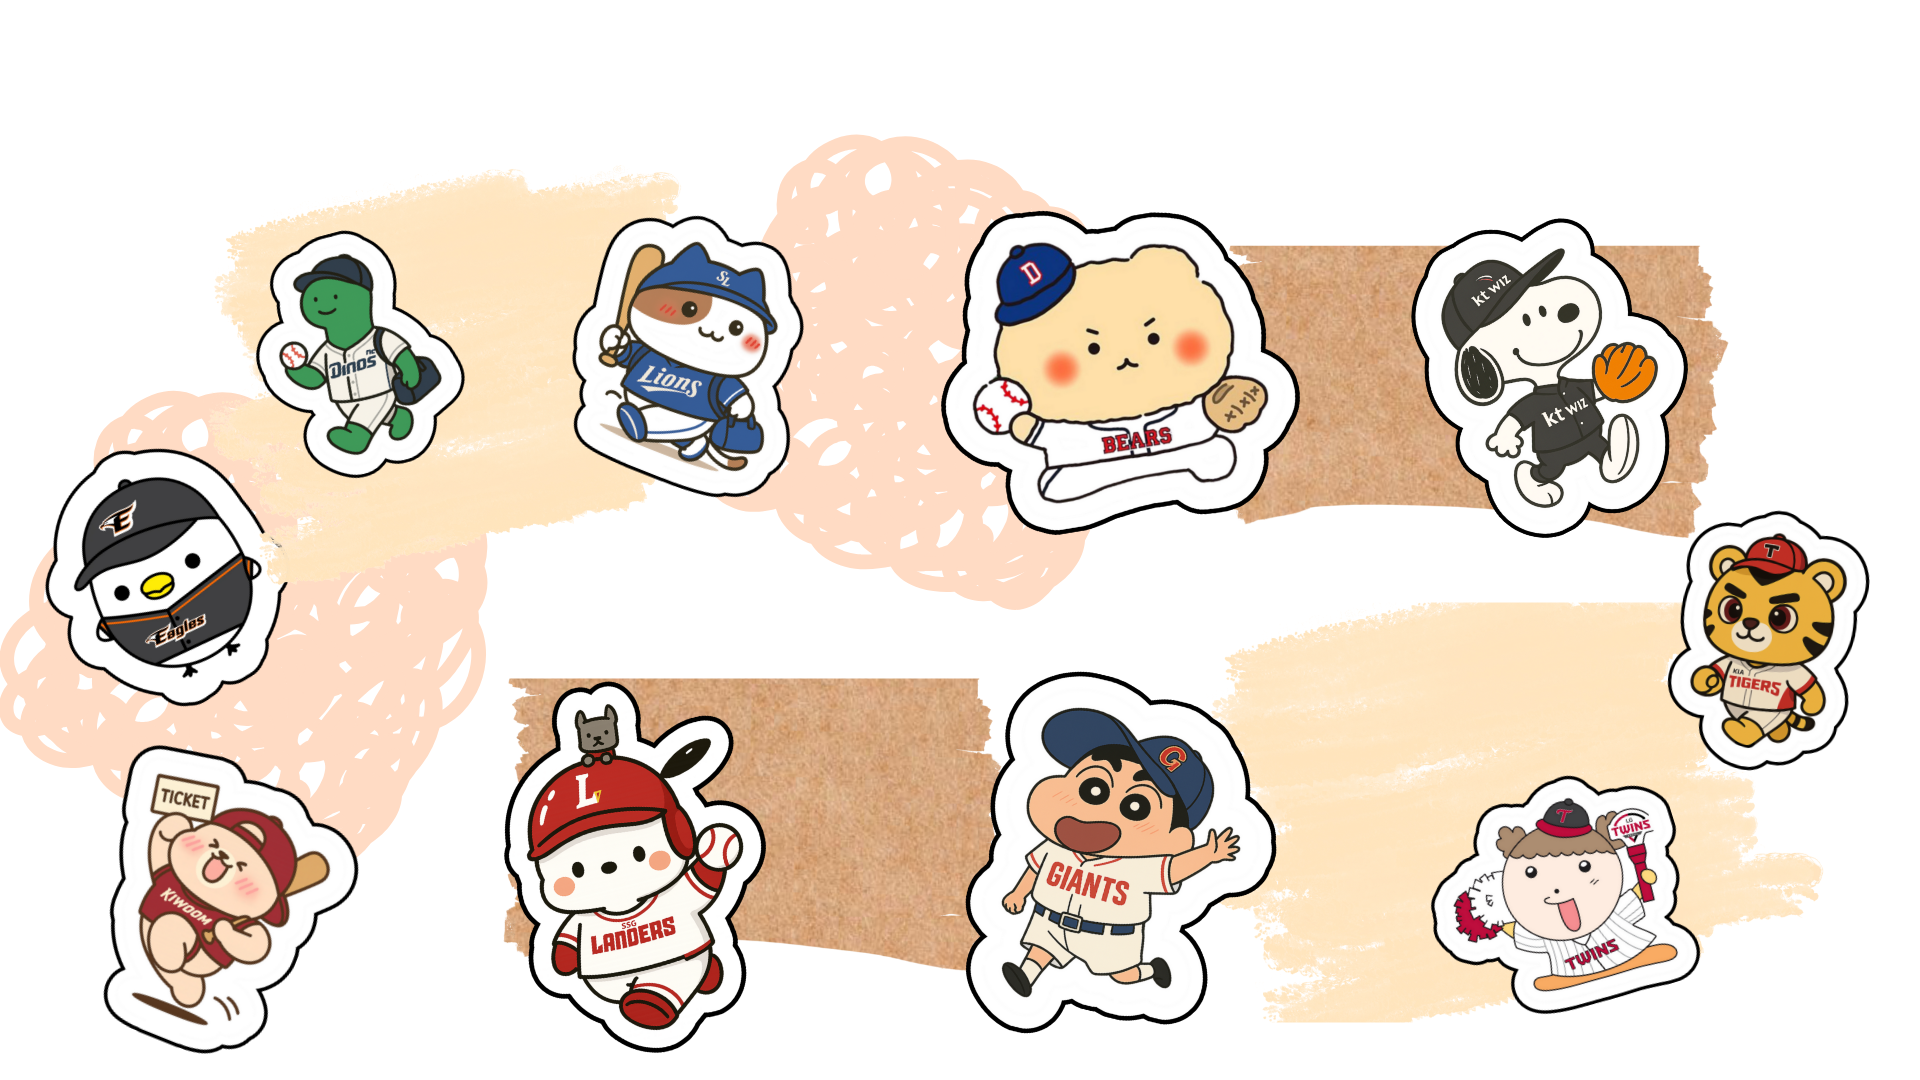
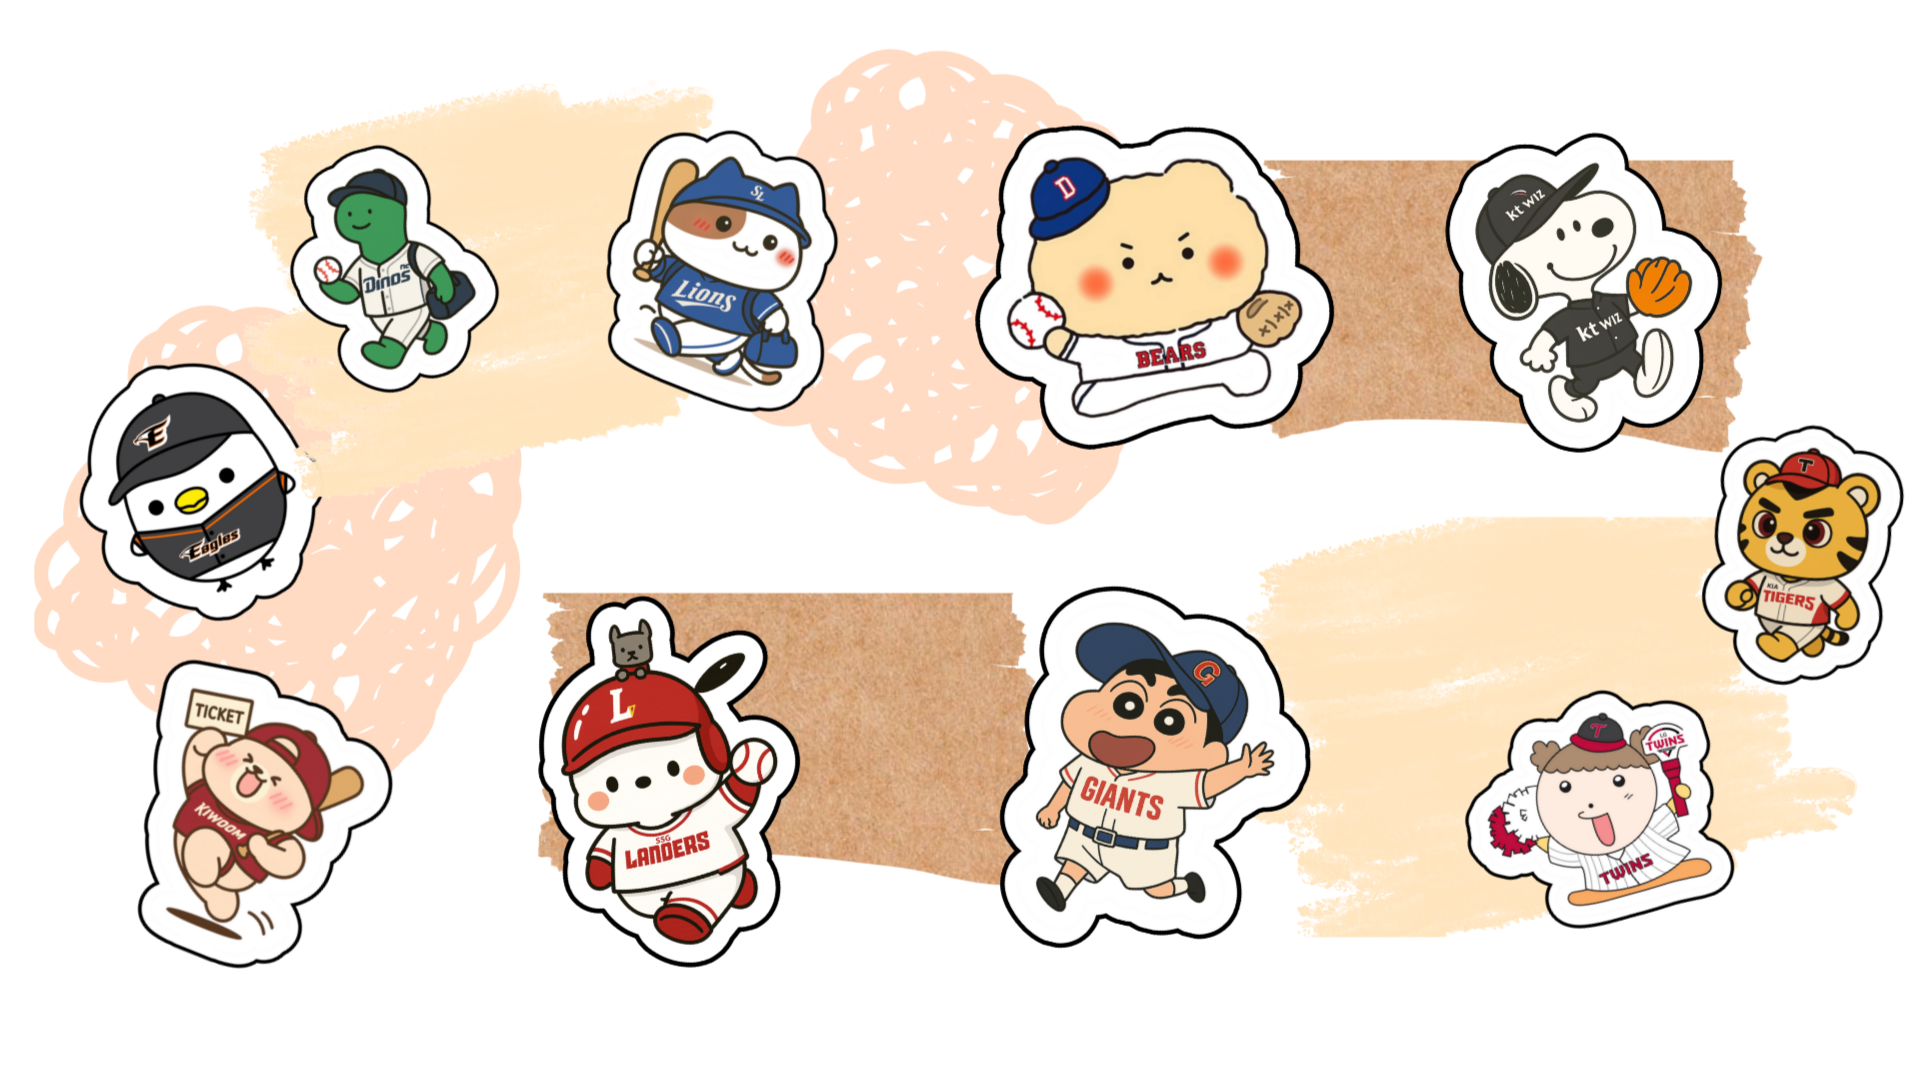
change image

diff --git a/posts/templates/detail.html b/posts/templates/detail.html
@@ -18,16 +18,16 @@
   
   {% block body %}
 <link rel="stylesheet" href="{% static 'posts/css/detail.css' %}">
-<body class="pt-[90px] bg-neutral-100 font-handdrawn">
+<body class="pt-[90px] bg-neutral-100 font-ydestreetb">
   <!-- 위에 배경 스티커 -->
   <img src="{% static 'posts/images/detail/pinkhitter.png' %}" alt="스티커" class="w-36 absolute top-4 left-4 z-0 mt-50">
   <img src="{% static 'posts/images/detail/bluehitter.png' %}" alt="스티커" class="w-36 absolute top-4 right-4 z-0  mt-90">
   <!-- 밑에 배경 스티커 -->
-   <img id="scrollSticker"
-     src="{% static 'posts/images/detail/yellowhitter.png' %}"
-     alt="스크롤 스티커"
-     class="fixed right-4 top-1/2 w-30 opacity-0 scale-90 z-10 pointer-events-none transition-all duration-500 transform -translate-y-1/2" />
-   <img id="scrollStickerLeft"
+  <img id="scrollSticker"
+    src="{% static 'posts/images/detail/yellowhitter.png' %}"
+    alt="스크롤 스티커"
+    class="fixed right-4 top-1/2 w-30 opacity-0 scale-90 z-10 pointer-events-none transition-all duration-500 transform -translate-y-1/2" />
+  <img id="scrollStickerLeft"
     src="{% static 'posts/images/detail/fan.png' %}"
     alt="왼쪽 스크롤 스티커"
     class="fixed left-4 top-1/3 w-30 opacity-0 scale-90 z-10 pointer-events-none transition-all duration-500 transform -translate-y-1/2" />

diff --git a/cal/templates/index.html b/cal/templates/index.html
@@ -2,11 +2,11 @@
 {% load static %}
 
 {% block body %}
-  <div class="w-full aspect-[16/9] bg-center bg-cover bg-no-repeat -mb-12 -translate-y-12 hidden sm:block"
+  <div class="w-full aspect-[16/9] bg-center bg-cover bg-no-repeat -mb-12 hidden sm:block"
       style="background-image: url({% static random_bg %});">
   </div>
 
-  <div class="w-full aspect-[9/16] bg-center bg-cover bg-no-repeat -mb-12 -translate-y-24 block sm:hidden"
+  <div class="w-full aspect-[9/16] bg-center bg-cover bg-no-repeat block sm:hidden"
     style="background-image: url({% static random_mobile_bg %});">
   </div>
 {% endblock %}

diff --git a/templates/_nav.html b/templates/_nav.html
@@ -1,6 +1,6 @@
 {% load static %}
 <nav x-data="{ mobileMenuOpen: false }"
-    class="bg-cover left-0 w-full bg-transparent z-30 py-1 md:py-3 font-jaram [background-position:0%_100%]"
+    class="bg-cover left-0 w-full bg-transparent py-1 md:py-3 font-jaram [background-position:0%_100%]"
     style="{% if user.team == none %}background-image: url('{% static 'nav/nav-' %}nothing.png');{% else %}background-image: url('{% static 'nav/nav-' %}{{ user.team }}.png');{% endif %}">
     <div class="mx-auto max-w-7xl px-4 sm:px-6 lg:px-8">
         <div class="relative flex h-16">

diff --git a/static/cal/css/calendar.css b/static/cal/css/calendar.css
@@ -4,7 +4,6 @@ html, body {
 
 .bg-paper {
   position: relative;
-  z-index: 0;
   overflow: auto;
   width: 100%;
   min-height: 100vh;
@@ -12,7 +11,7 @@ html, body {
   background-image: url('/static/cal/images/bg/cal-paper.jpg');
   background-size: cover;
   background-position: center;
-  background-repeat: no-repeat;
+  background-repeat: repeat;
   background-color: rgba(255, 255, 255, 0.726);
   background-blend-mode: lighten;
 }
